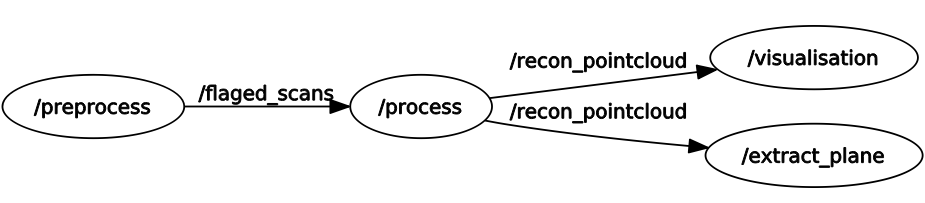
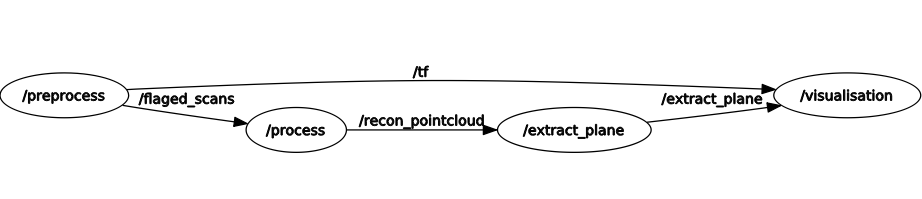
strenghten visualization

diff --git a/all_in_one/src/preprocess.cpp b/all_in_one/src/preprocess.cpp
@@ -10,10 +10,13 @@
 
 #include <ros/ros.h>
 #include <sensor_msgs/LaserScan.h>
+#include <sensor_msgs/PointCloud.h>
+#include <tf/transform_broadcaster.h>
 #include <all_in_one/FlagedScan.h>
 #include <string>
 #include <cstddef>
 #include <deque>
+#include <cmath>
 
 struct PointXYI
 {
@@ -43,26 +46,54 @@ public:
 		return m_publisher;
 	}
 
+	inline ros::NodeHandle& getNodeHandle()
+	{
+		return m_nodeHandle;
+	}
+
+	static void setPublish1(const std::string &topicStr, int queueLen, RosNode &node)
+	{
+		m_publisher1 = node.getNodeHandle().advertise<sensor_msgs::PointCloud>(topicStr, queueLen);
+	}
+
 protected:
 	static void scanCallback(const sensor_msgs::LaserScan::ConstPtr &msg)
 	{
 		float angle = 0.0;			// angle between first point and current point
 		PointXYI curPoint;
 
+		sensor_msgs::PointCloud pointcloud;
+		pointcloud.header.stamp = ros::Time::now();
+		pointcloud.header.frame_id = "base";
+
+		pointcloud.points.resize(m_endPointIndex - m_startPointIndex + 1);
+
+		pointcloud.channels.resize(1);
+		pointcloud.channels[0].name = "intensities";
+		pointcloud.channels[0].values.resize(m_endPointIndex - m_startPointIndex + 1);
+
 		for(int i = m_startPointIndex; i < m_endPointIndex; ++i)
 		{
 			angle = msg->angle_increment * i + msg->angle_min;
-			curPoint.m_x = -sin(angle) * msg->ranges[i];
+			curPoint.m_x = sin(angle) * msg->ranges[i];
 			curPoint.m_y = cos(angle) * msg->ranges[i];
 			curPoint.m_i = msg->intensities[i];
 
-			// we only select points whoes ranges less than 1m and y less than 0.5m(interested ranges),
-			// you can tune the value based on your hardware.
-			if(msg->ranges[i] < 1.0 && curPoint.m_y < 0.5)
+			if(msg->ranges[i] < 1.0)
 			{
-				m_scanBuffer.push_back(curPoint);
+				pointcloud.points[i - m_startPointIndex].x = curPoint.m_x;
+				pointcloud.points[i - m_startPointIndex].y = curPoint.m_y;
+				pointcloud.points[i - m_startPointIndex].z = -m_numScans * m_timeUnit * m_rateOfBelt;
+				pointcloud.channels[0].values[i - m_startPointIndex] = curPoint.m_i;
+
+				// we only select points whoes ranges less than 1m and y less than 0.5m(interested ranges),
+				// you can tune the value based on your hardware.
+				if(curPoint.m_y < 0.5)
+					m_scanBuffer.push_back(curPoint);
 			}
 		}
+
+		m_publisher1.publish(pointcloud);
 
 		all_in_one::FlagedScan curScan;
 		curScan.isOnCommodity = (m_scanBuffer.size() == 0 ? 0 : 1);
@@ -90,18 +121,26 @@ public:
 	static int m_numScans;
 	static std::vector<PointXYI> m_scanBuffer;
 	static std::deque<all_in_one::FlagedScan> m_scanDeque;
+	static ros::Publisher m_publisher1;
 
 	// a scan contains 1081 points across 270 degrees, resolution of angle is 0.25 degree, 
 	// we select points between 530 and 900 index cover the whole commodity. 
 	const static int m_startPointIndex;
 	const static int m_endPointIndex;
+	const static float m_timeUnit;		// time of a scan consumed
+	const static float m_rateOfBelt;	// rate of conveyor belt, this value need to calibrate by yourself
+	const static float m_pi;
 };
 
 std::vector<PointXYI> RosNode::m_scanBuffer = std::vector<PointXYI>();
 std::deque<all_in_one::FlagedScan> RosNode::m_scanDeque = std::deque<all_in_one::FlagedScan>();
+ros::Publisher RosNode::m_publisher1 = ros::Publisher();
 int RosNode::m_numScans = 0;
 const int RosNode::m_startPointIndex = 530;
 const int RosNode::m_endPointIndex = 900;
+const float RosNode::m_timeUnit = 0.025;
+const float RosNode::m_rateOfBelt = 0.0272;
+const float RosNode::m_pi = 3.14159;
 
 int main(int argc, char** argv)
 {
@@ -110,6 +149,9 @@ int main(int argc, char** argv)
 	RosNode preprocess_node;
 	preprocess_node.subscribe("/scan", 1000);
 	preprocess_node.setPublish("/flaged_scans", 1000);
+	RosNode::setPublish1("/raw_pointcloud", 1000, preprocess_node);
+
+	tf::TransformBroadcaster broadcaster;
 
 	ros::Rate loop_rate(40);
 	while(ros::ok())
@@ -123,6 +165,13 @@ int main(int argc, char** argv)
 			RosNode::m_numScans++;
 			ROS_INFO("Send scans: [%d]", RosNode::m_numScans);
 		}
+
+		broadcaster.sendTransform(tf::StampedTransform(
+														tf::Transform(tf::Quaternion(cos(RosNode::m_pi/4), sin(RosNode::m_pi/4), 0, 0), 
+														tf::Vector3(0.0, 0.0, 0.0)),
+														ros::Time::now(),
+														"base", 
+														"laser"));
 
 		ros::spinOnce();
 		loop_rate.sleep();

diff --git a/all_in_one/src/extract_plane.cpp b/all_in_one/src/extract_plane.cpp
@@ -198,6 +198,16 @@ public:
 		m_subscriber = m_nodeHandle.subscribe(topicStr, queueLen, pointCloudCallback);
 	}
 
+	inline ros::NodeHandle& getNodeHandle()
+	{
+		return m_nodeHandle;
+	}
+
+	static void setPublish(const std::string &topicStr, int queueLen, RosNode &node)
+	{
+		m_publisher = node.getNodeHandle().advertise<sensor_msgs::PointCloud2>(topicStr, queueLen);
+	}
+
 protected:
 	static void pointCloudCallback(const sensor_msgs::PointCloud &msg)
 	{
@@ -251,6 +261,11 @@ protected:
     	extract.filter (*cloud_p);
     	std::cout << "PointCloud representing the planar component: " << cloud_p->width * cloud_p->height << " data points." << std::endl;
 
+    	// publish top plane
+    	sensor_msgs::PointCloud2 msg3;
+    	pcl::toROSMsg(*cloud_p, msg3);
+    	m_publisher.publish(msg3);
+
     	/**** part 3: calculate the minimum rectangle which can contain the whole top plane pointcloud ****/
     	n = 0;
 
@@ -291,9 +306,11 @@ private:
 
 public:
 	static int m_numOfCommodities;
+	static ros::Publisher m_publisher;
 };
 
 int RosNode::m_numOfCommodities = 0;
+ros::Publisher RosNode::m_publisher = ros::Publisher();
 
 int main(int argc, char** argv)
 {
@@ -301,6 +318,7 @@ int main(int argc, char** argv)
 
 	RosNode extract_plane_node;
 	extract_plane_node.subscribe("/recon_pointcloud", 2);
+	RosNode::setPublish("/extract_plane", 2, extract_plane_node);
 
 	ros::spin();
 

diff --git a/all_in_one/src/process.cpp b/all_in_one/src/process.cpp
@@ -61,7 +61,7 @@ protected:
 			{
 				point.m_x = msg.x[i];
 				point.m_y = msg.y[i];
-				point.m_z = m_numScans * m_timeUnit * m_rateOfBelt;
+				point.m_z = -m_numScans * m_timeUnit * m_rateOfBelt;
 				point.m_i = msg.i[i];
 
 				m_pointBuffer.push_back(point);
@@ -121,7 +121,7 @@ int main(int argc, char** argv)
 
 			sensor_msgs::PointCloud pointCloud;
 			pointCloud.header.stamp = ros::Time::now();
-			pointCloud.header.frame_id = "process_frame";
+			pointCloud.header.frame_id = "base";
 
 			pointCloud.points.resize(tmp.size());
 

diff --git a/README.md b/README.md
@@ -6,7 +6,7 @@ Scanning cuboid commodities randomly on conveyor belt for calculating sizes base
 
 The whole pipeline organized based on ROS(Robot Operating System). It consists of three nodes: `preprocess_node`, `process_node`, `extract_plane_node`.
 
-* `preprocess_node`: subscribes `/scan` topic published by `urg_node` node which belong to official package `urg_node`, and publishes `/flaged_scans` topic which contains self-defined ros-message `FlagedScan`(the message contains interested part which is arounding conveyor belt and cuboid commodities).
+* `preprocess_node`: subscribes `/scan` topic published by `urg_node` node which belong to official package `urg_node`, and publishes `/flaged_scans` topic which contains self-defined ros-message `FlagedScan`(the message contains interested part which is arounding conveyor belt and cuboid commodities), `/tf` topic for tranformation.
 * `process_node`: subscribes `/flaged_scans` topic published by `preprocess_node` node, and publishes `/recon_pointcloud` topic which contains ros standard message `sensor_msgs::PointCloud`(this step need additional information, rate of conveyor belt, to calculate 3D pointcloud).
 * `extract_plane_node`: subscribes `/recon_pointcloud` topic published by `process_node` node, and convert data type of pointcloud from `sensor_msgs::PointCloud` to `pcl::PointCloud<pcl::PointXYZ>`. Nextly, extract top plane of pointcloud of cuboid commodity. Lastly, calculate the minimum rectangle which can contain the whole top plane.
 
@@ -38,6 +38,14 @@ ROS graph of nodes:
 raw scan data from HOKUYO 2D-Lidar:
 
 ![row_scan_data](./resources/raw_data_hokuyo.png)
+
+point cloud recontructed from raw scan data:
+
+![raw_pointcloud](./resources/raw_pointcloud.png)
+
+extracted plane in the from of point cloud:
+
+![extracted_plane](./resources/extract_plane.png)
 
 sum of cuboid commodities and its sizes(length, width, height):
 
